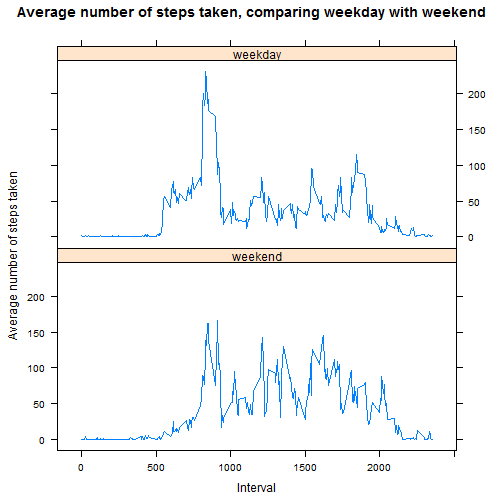
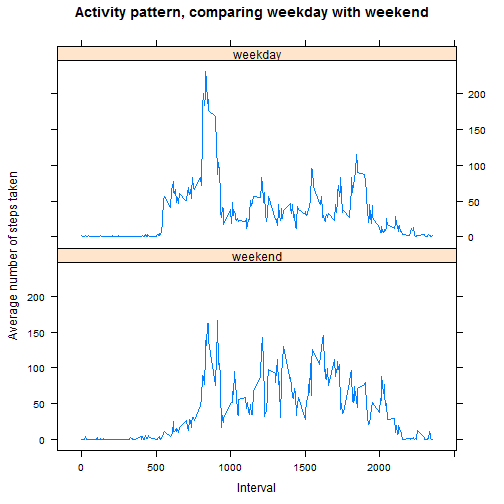
Tidying.

Changed region(s): [[0.0298, 0.0, 0.9821, 0.0595]]

diff --git a/PA1_template.html b/PA1_template.html
@@ -203,13 +203,14 @@ hr {
 <body>
 <h2>Loading and preprocessing the data</h2>
 
-<h2>What is mean total number of steps taken per day?</h2>
-
 <pre><code class="r">data &lt;- read.csv(&quot;activity/activity.csv&quot;)
 
 complete &lt;- data[complete.cases(data),]
+</code></pre>
 
-days &lt;- split(complete, complete$date, drop=TRUE)
+<h2>What is mean total number of steps taken per day?</h2>
+
+<pre><code class="r">days &lt;- split(complete, complete$date, drop=TRUE)
 
 totalStepsPerDay &lt;- sapply(days, function(day) { return (sum(day$steps)) } )
 </code></pre>
@@ -260,8 +261,10 @@ estimData = data
 for (r in 1:nrow(estimData)) {
   if (is.na(estimData[r, &#39;steps&#39;])) {
     interval = estimData[r, &#39;interval&#39;]
+    # look up the mean value for that interval
     index = which(names(meanStepsPerInterval) == as.character(interval))
     replacement = meanStepsPerInterval[index]
+    # replace the missing value with the mean for that interval
     estimData[r, &#39;steps&#39;] = replacement
   }
 }
@@ -281,7 +284,7 @@ estimTotalStepsPerDay &lt;- sapply(estimDays, function(day) { return (sum(day$st
 
 <p>With missing values filled in with estimates,
 the mean total number of steps taken per day is
-10766.
+10766,
 and the median total number of steps taken per day is
 10766.</p>
 
@@ -318,19 +321,18 @@ meanWeekday &lt;- sapply(estimWdIntervals, function(i) { return (mean(i$steps)) 
 combined = data.frame(average=meanWeekend, interval=names(meanWeekend), we=as.factor(&quot;weekend&quot;))
 combined = rbind(combined, data.frame(average=meanWeekday, interval=names(meanWeekday), we=as.factor(&quot;weekday&quot;)))
 
-##ord = combined[order(as.integer(as.character(combined$interval))), ]
 
 library(lattice)
 xyplot(average ~ as.integer(as.character(interval)) | we,
        data=combined,
        type=&quot;l&quot;,
        layout=c(1,2),
-       main=&quot;Average number of steps taken, comparing weekday with weekend&quot;,
+       main=&quot;Activity pattern, comparing weekday with weekend&quot;,
        ylab=&quot;Average number of steps taken&quot;,
        xlab=&quot;Interval&quot;)
 </code></pre>
 
[2 lines of base64/hex data omitted]
 
 </body>
 

diff --git a/PA1_template.md b/PA1_template.md
@@ -5,16 +5,19 @@ output:
     keep_md: true
 ---
 
+
+
 ## Loading and preprocessing the data
-
-
-## What is mean total number of steps taken per day?
 
 ```r
 data <- read.csv("activity/activity.csv")
 
 complete <- data[complete.cases(data),]
+```
 
+## What is mean total number of steps taken per day?
+
+```r
 days <- split(complete, complete$date, drop=TRUE)
 
 totalStepsPerDay <- sapply(days, function(day) { return (sum(day$steps)) } )
@@ -75,8 +78,10 @@ estimData = data
 for (r in 1:nrow(estimData)) {
   if (is.na(estimData[r, 'steps'])) {
     interval = estimData[r, 'interval']
+    # look up the mean value for that interval
     index = which(names(meanStepsPerInterval) == as.character(interval))
     replacement = meanStepsPerInterval[index]
+    # replace the missing value with the mean for that interval
     estimData[r, 'steps'] = replacement
   }
 }
@@ -100,7 +105,7 @@ hist(estimTotalStepsPerDay,
 
 With missing values filled in with estimates,
 the mean total number of steps taken per day is
-10766.
+10766,
 and the median total number of steps taken per day is
 10766.
 
@@ -143,14 +148,13 @@ meanWeekday <- sapply(estimWdIntervals, function(i) { return (mean(i$steps)) } )
 combined = data.frame(average=meanWeekend, interval=names(meanWeekend), we=as.factor("weekend"))
 combined = rbind(combined, data.frame(average=meanWeekday, interval=names(meanWeekday), we=as.factor("weekday")))
 
-##ord = combined[order(as.integer(as.character(combined$interval))), ]
 
 library(lattice)
 xyplot(average ~ as.integer(as.character(interval)) | we,
        data=combined,
        type="l",
        layout=c(1,2),
-       main="Average number of steps taken, comparing weekday with weekend",
+       main="Activity pattern, comparing weekday with weekend",
        ylab="Average number of steps taken",
        xlab="Interval")
 ```
